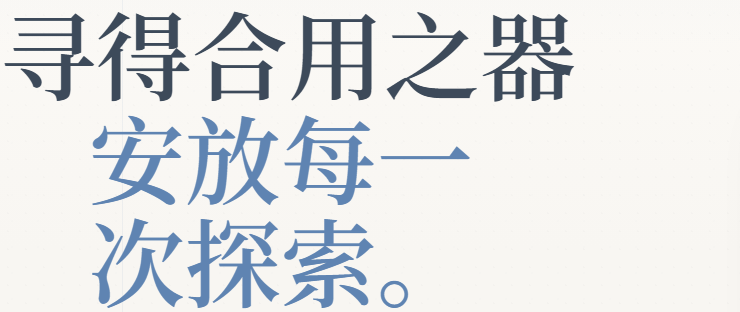
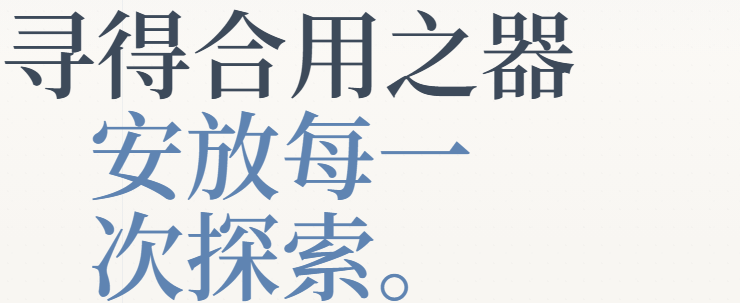
fix: clear launch gate regressions

diff --git a/app/resources/_components/ResourceRating.tsx b/app/resources/_components/ResourceRating.tsx
@@ -6,13 +6,12 @@ interface ResourceRatingProps {
   pageId: string;
 }
 
-async function showToast(type: "success" | "error", message: string) {
-  try {
-    const { toast } = await import("sonner");
+function showToast(type: "success" | "error", message: string) {
+  void import("sonner").then(({ toast }) => {
     toast[type](message);
-  } catch {
+  }).catch(() => {
     // Toast delivery is non-critical; rating submission should keep its state.
-  }
+  });
 }
 
 export function ResourceRating({ pageId }: ResourceRatingProps) {
@@ -63,10 +62,10 @@ export function ResourceRating({ pageId }: ResourceRatingProps) {
       });
       const data = await res.json();
       if (!res.ok) {
-        await showToast("error", data.error || "提交失败");
+        showToast("error", data.error || "提交失败");
         return;
       }
-      await showToast("success", "感谢你的评分");
+      showToast("success", "感谢你的评分");
       setRating(value);
       setSubmitted(true);
       const latest = await loadCount();
@@ -76,7 +75,7 @@ export function ResourceRating({ pageId }: ResourceRatingProps) {
         setCount((c) => (c == null ? null : c + 1));
       }
     } catch {
-      await showToast("error", "网络错误，请重试");
+      showToast("error", "网络错误，请重试");
     } finally {
       setSubmitting(false);
     }

diff --git a/app/resources/_components/ResourceRating.test.tsx b/app/resources/_components/ResourceRating.test.tsx
@@ -54,7 +54,9 @@ describe("ResourceRating", () => {
     fireEvent.click(screen.getByRole("button", { name: "5 星" }));
 
     await screen.findByText("已记录（当前 8 次评分）。");
-    expect(toast.success).toHaveBeenCalledWith("感谢你的评分");
+    await waitFor(() => {
+      expect(toast.success).toHaveBeenCalledWith("感谢你的评分");
+    });
     expect(fetchMock).toHaveBeenNthCalledWith(
       2,
       "/api/resource-ratings",
@@ -92,6 +94,8 @@ describe("ResourceRating", () => {
     const source = readFileSync(join(process.cwd(), "app/resources/_components/ResourceRating.tsx"), "utf8");
 
     expect(source).not.toMatch(/import\s+\{\s*toast\s*\}\s+from\s+["']sonner["']/);
-    expect(source).toContain('await import("sonner")');
+    expect(source).toContain('import("sonner")');
+    expect(source).not.toMatch(/await\s+showToast\(/);
+    expect(source).toContain('void import("sonner")');
   });
 });

diff --git a/e2e/home.spec.ts b/e2e/home.spec.ts
@@ -164,7 +164,7 @@ test.describe("工具详情页", () => {
 		await expect(page.locator('a:has-text("访问官网")').first()).toBeVisible();
 
 		// 稳定的辅助导航区域
-		await expect(page.locator('text=/浏览分类/')).toBeVisible();
+		await expect(page.getByRole("heading", { name: "浏览分类" }).first()).toBeVisible();
 	});
 });
 

diff --git a/docs/LAUNCH-CHECKLIST.md b/docs/LAUNCH-CHECKLIST.md
@@ -6,20 +6,20 @@
 
 ## 当前结论
 
-**代码侧可以发布，但生产部署链路仍有 1 个红色项和 2 个黄色运维检查项。**
+**本地代码侧 launch gate 已通过，但生产部署链路仍有 1 个红色项和 2 个黄色运维检查项。**
 
-当前代码、测试、构建和本地安全头检查均已通过。红色项是 GitHub Actions 的 `netlify deploy --prod` 实际返回 `JSONHTTPError: Forbidden`，因此最新 `netlify.toml` 安全头配置尚未确认上线；工作流已改为部署失败即失败，避免假绿。黄色项有两个：生产 `/api/health` 显示 Sentry DSN 未配置；embedding 子检查为 `error`，说明生产运行环境暂时无法访问 `EMBED_SERVER_URL`。正式上线前需要修复 Netlify token/site 权限，补齐 `NEXT_PUBLIC_SENTRY_DSN`，并确认生产 embedding 服务可达，或明确接受语义搜索降级为文本/Fuse 搜索的行为。
+当前代码、测试、构建、本地 E2E 和本地安全检查均已通过。本轮 launch hardening 修复了 ResourceRating toast 动态加载阻塞评分 UI 的问题，刷新了已批准纸面视觉的 hero 快照，并收紧了移动端工具详情页 E2E locator。红色项仍是 GitHub Actions 的 `netlify deploy --prod` 实际返回 `JSONHTTPError: Forbidden`，因此最新生产部署仍需修复 Netlify token/site 权限后复验；黄色项有两个：生产 `/api/health` 显示 Sentry DSN 未配置；embedding 子检查为 `error`，说明生产运行环境暂时无法访问 `EMBED_SERVER_URL`。正式上线前需要修复 Netlify token/site 权限，补齐 `NEXT_PUBLIC_SENTRY_DSN`，并确认生产 embedding 服务可达，或明确接受语义搜索降级为文本/Fuse 搜索的行为。
 
 ## 已验证门禁
 
 | 门禁 | 状态 | 证据 |
 |---|---:|---|
-| Git 状态 | ✅ | `master` 与 `origin/master` 已同步，工作树 clean |
+| Git 状态 | ✅ | 本轮 launch hardening 提交后需保持工作树 clean |
 | Lint | ✅ | `pnpm lint` |
 | Typecheck | ✅ | `pnpm typecheck` |
-| 单元测试 | ✅ | `pnpm test` 结果已记录在 `docs/PROGRESS.md` |
-| 针对性 E2E | ✅ | 移动底栏/移动布局/分类切换 grep：`6 passed` |
-| 全量 E2E | ✅ | Playwright 全量：`52 passed` |
+| 单元测试 | ✅ | `pnpm test`：317 passed / 6 skipped |
+| 针对性 E2E | ✅ | ResourceRating 目标测试 `3 passed`；Figma 详情页 + hero visual 子集 `4 passed` |
+| 全量 E2E | ✅ | `pnpm exec playwright test --reporter=line`：52 passed |
 | 生产构建 | ✅ | `pnpm build` |
 | 依赖审计 | ✅ | `pnpm audit --audit-level moderate --registry=https://registry.npmjs.org`：无已知漏洞 |
 | 密钥扫描 | ✅ | `node scripts/pre-commit-secret-scan.mjs` |
@@ -31,7 +31,7 @@
 
 | 项目 | 状态 | 结果 |
 |---|---:|---|
-| GitHub Actions | ❌ | 最新验证：`quality`、`build`、`e2e` 通过；`deploy` 真实失败，日志显示 `netlify deploy --prod --site "$NETLIFY_SITE_ID"` 返回 `JSONHTTPError: Forbidden`；`link-check` 因依赖 deploy 被跳过 |
+| GitHub Actions | ❌ | 最近一次远端验证：`quality`、`build`、`e2e` 通过；`deploy` 真实失败，日志显示 `netlify deploy --prod --site "$NETLIFY_SITE_ID"` 返回 `JSONHTTPError: Forbidden`；本轮提交推送后需重新跑 Actions |
 | Lighthouse CI | ✅ | 最新 `master` run success |
 | 生产首页 | ✅ | `GET /` 返回 200 |
 | 生产搜索 API | ✅ | `/api/search?q=ai&limit=5` 返回 200，5 条结果 |
@@ -93,14 +93,14 @@
 使用 revert commit，不重写历史：
 
 ```powershell
-rtk git revert b79fdf70 --no-edit
+rtk git revert <release-commit> --no-edit
 rtk git -c http.proxy= -c https.proxy= push origin master
 ```
 
-如果视觉快照收尾提交也需要一起回滚：
+如果需要连续回滚多个发布提交：
 
 ```powershell
-rtk git revert ecdd68c8 --no-edit
+rtk git revert <newest-release-commit> <older-release-commit> --no-edit
 rtk git -c http.proxy= -c https.proxy= push origin master
 ```
 

diff --git a/docs/perf/findings.md b/docs/perf/findings.md
@@ -714,7 +714,7 @@ Toaster 本身已是 dynamic import，真正移除 sonner 出首屏需将 `ui/so
 导入因此被隔离到动态客户端 chunk，不再由 layout 直接同步引用。
 
 **2026-07-04 Superpower follow-up**：`app/resources/_components/ResourceRating.tsx`
-也已移除静态 `import { toast } from "sonner"`，改为评分提交路径内按需动态导入。
+也已移除静态 `import { toast } from "sonner"`，改为评分提交路径内 fire-and-forget 动态导入。
 这不是首页初始 bundle 的核心瓶颈，但能避免资源详情路由把 toast 库作为同步依赖，并用
 `ResourceRating.test.tsx` 的静态边界测试防回退。
 
@@ -722,7 +722,7 @@ Toaster 本身已是 dynamic import，真正移除 sonner 出首屏需将 `ui/so
 - `components/ReviewSection.tsx`：删除 `import { toast } from "sonner"`，改为 `handleSubmit` 内 `const { toast } = await import("sonner")`
 - 4 处 toast 调用全部改为动态 import，一次 import 复用
 - `components/ToasterWrapper.tsx`：后续新增 dynamic wrapper，`ssr: false` 懒加载 `components/ui/sonner`
-- `app/resources/_components/ResourceRating.tsx`：评分成功/失败 toast 改为提交路径内 `await import("sonner")`
+- `app/resources/_components/ResourceRating.tsx`：评分成功/失败 toast 改为提交路径内 `void import("sonner")`，不阻塞评分 UI 状态更新
 
 ### before/after 数据
 
@@ -739,7 +739,7 @@ Toaster 本身已是 dynamic import，真正移除 sonner 出首屏需将 `ui/so
 
 `62261102` —— ReviewSection toast 动态 import。
 `81f4d27a` —— 新增 ToasterWrapper，layout 侧动态加载 sonner UI。
-2026-07-04 Superpower follow-up —— ResourceRating toast 动态 import + 静态边界测试。
[phone redacted] Superpower follow-up —— ResourceRating toast fire-and-forget 动态 import + 静态边界测试。
 
 ---
 
@@ -864,7 +864,7 @@ motion/react 已完全从初始加载路径中移除，仅在动态 chunk（Mode
 |---|---|---|
 | @sentry/* | ~103.7 KB | P3 — H7 方案3（换 entry）破坏性，留存 |
 | lucide-react | 17.3 KB | P3 — 确认已按需 import |
-| sonner | 9.0 KB | P3 — H9 需 layout 侧改为 dynamic |
+| sonner | 9.0 KB | P3 — H9 layout 侧已动态隔离；需用最新 bundle analyzer 复测是否仍在目标路由同步 chunk 中 |
 
 即使全部削减（约 130 KB），首屏仍 ≈ 300 KB（框架地板 322 KB +
 应用代码 50.8 KB）。**250KB 目标需 Framework-level RSC 架构调整**